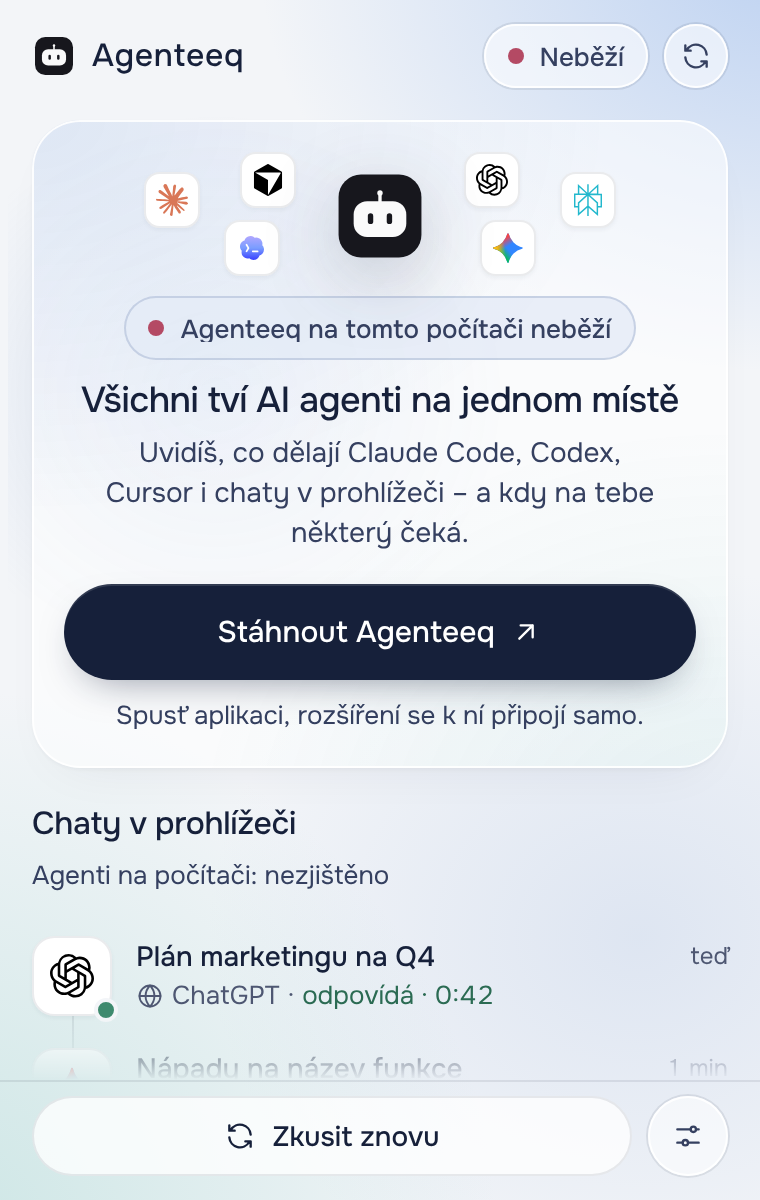
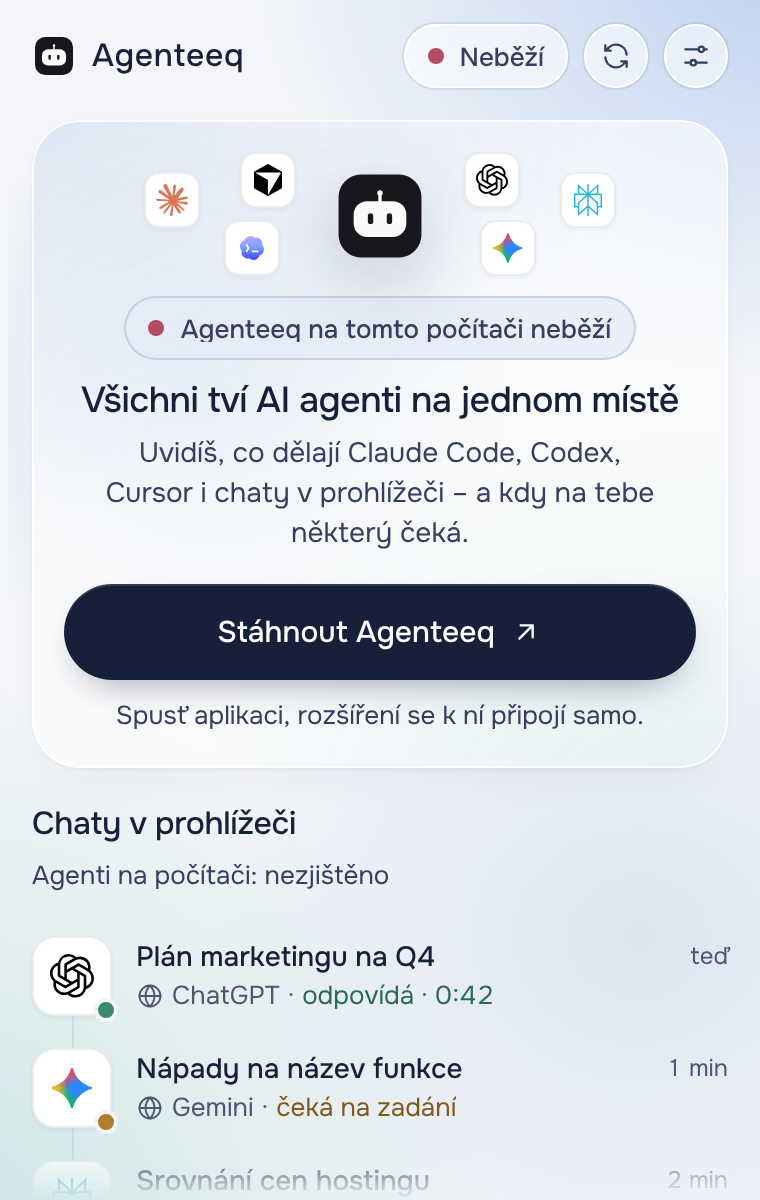
Okno rozšíření: jedno „Otevřít“ na jednom místě, bez paty
Vlastník u rušného stavu: „proč tam je dole ten stejný button? nesmí to být
tak zmatečné!“ Reflektor nabízel „Otevřít v Agenteeq“ a pata hned pod ním
skoro totéž „Otevřít Agenteeq“.

- Akce reflektoru popisuje položku: „Otevřít konverzaci“ (focus-agent otevře
  právě tu konverzaci v aplikaci), u webového chatu „Přepnout na kartu“.
- Aplikaci otevírá jen značka „Agenteeq ↗“ v hlavičce (odkaz se jménem
  „Otevřít aplikaci Agenteeq“, plocha při najetí a zaostření). Bez běžící
  aplikace je to jen značka a jedinou hlavní výzvou zůstává „Stáhnout“.
- Pata zmizela: služby a port jsou kruh v hlavičce vedle obnovy, ověření
  stránky kapsle u řádku aktuální karty; „Zkusit znovu“ nahradila obnova.
  Ose zbylo víc místa – v rušném stavu jsou bez posunu vidět čtyři řádky.

qa-extension hlídá, že pata ani druhé „Otevřít Agenteeq“ nejsou, že žádná
dvě viditelná ovládání nemají stejný popisek, popisek akce reflektoru,
odkaz značky a vejití hlavičky (i na 320 px). Snímky pro obchod přegenerované
skriptem, CHANGELOG a DESIGN.md doplněné.

Claude-Session: https://claude.ai/code/session_01Kd21zLMYvUvUu9VejB3Fu3

diff --git a/extension/popup.html b/extension/popup.html
@@ -81,10 +81,16 @@
 
     /* ---------- Hlavička ---------- */
     .top { flex: none; position: relative; display: flex; align-items: center; gap: 8px; height: 56px; padding: 0 16px; }
-    .top::after, .foot::before { content: ''; position: absolute; left: 0; right: 0; height: 1px; background: var(--hair); opacity: 0; transition: opacity var(--motion-response) var(--ease); }
-    .top::after { bottom: 0; }
-    body[data-odrolovano='true'] .top::after, body[data-dalsi='true'] .foot::before { opacity: 1; }
-    .brand { display: inline-flex; align-items: center; gap: 8px; margin-right: auto; min-width: 0; font: 500 16px/1 var(--f-display); letter-spacing: .02em; }
+    .top::after { content: ''; position: absolute; left: 0; right: 0; bottom: 0; height: 1px; background: var(--hair); opacity: 0; transition: opacity var(--motion-response) var(--ease); }
+    body[data-odrolovano='true'] .top::after { opacity: 1; }
+    /* Značka otevírá aplikaci (jediné místo s touto akcí): kapsle 32 px, plocha až při najetí. Bez
+       běžící aplikace je to jen značka – odkaz by vedl na nedostupnou adresu. */
+    .brand { display: inline-flex; align-items: center; gap: 8px; height: 32px; margin: 0 auto 0 -8px; padding: 0 10px 0 8px; min-width: 0; border-radius: var(--r-full); color: var(--ink); font: 500 16px/1 var(--f-display); letter-spacing: .02em; text-decoration: none; transition: background-color var(--motion-response) var(--ease), box-shadow var(--motion-response) var(--ease); }
+    .brand .sipka { width: 14px; height: 14px; color: var(--ink-2); transition: transform var(--motion-move) var(--ease-out); }
+    a.brand:hover { background: var(--glass-strong); box-shadow: inset 0 0 0 1px var(--glass-rim), 0 0 0 1px var(--hair); }
+    a.brand:hover .sipka { transform: translate(2px, -2px); }
+    a.brand:active { transform: scale(.98); }
+    .brand:not([href]) .sipka { display: none; }
     .chip { display: inline-flex; align-items: center; gap: 8px; height: 32px; padding: 0 12px; border-radius: var(--r-full); font-size: 13px; font-weight: 500; line-height: 1; white-space: nowrap; }
     .chip--glass { background: var(--glass); box-shadow: inset 0 0 0 1px var(--glass-rim), 0 0 0 1px var(--hair); color: var(--ink-2); }
     .dot { width: 8px; height: 8px; flex: none; border-radius: 50%; background: var(--mute); }
@@ -216,6 +222,7 @@
     .btn--primary:hover { background: var(--action-hover); box-shadow: 0 1px 0 rgba(255, 255, 255, .12) inset, 0 12px 24px -12px rgba(22, 32, 58, .6); }
     @media (prefers-color-scheme: dark) { .btn--primary, .btn--primary:hover { box-shadow: 0 8px 24px -12px rgba(0, 0, 0, .8); } }
     .btn--48 { height: 48px; padding: 0 24px; font-size: 15px; }
+    .btn--32 { height: 32px; padding: 0 12px; font-size: 13px; }
     .btn--block { width: 100%; }
     /* Vybraná volba (Sedí / Nesedí): obrys inkoustem, ať se nepere s hlavní výzvou pod ní. Řez písma se nemění. */
     .btn[aria-pressed='true'] { background: var(--card); box-shadow: inset 0 0 0 2px var(--ink); }
@@ -269,6 +276,7 @@
     .row-side { display: grid; justify-items: end; align-self: start; gap: 2px; }
     .row-time { color: var(--mute); font-size: 12px; line-height: 20px; white-space: nowrap; }
     .tag { color: var(--brass-ink); font-size: 12px; line-height: 20px; white-space: nowrap; }
+    .radek--tato .row-side { align-self: center; justify-items: end; gap: 4px; }
     .chev { position: absolute; right: 8px; bottom: 10px; width: 16px; height: 16px; color: var(--mute); opacity: 0; transform: translateX(-4px); transition: opacity var(--motion-response) var(--ease), transform var(--motion-move) var(--ease-out); }
     button.radek:hover .chev, button.radek:focus-visible .chev { opacity: 1; transform: none; }
     .prazdne { margin-top: 16px; padding: 16px; border-radius: var(--r-md); background: var(--glass); box-shadow: inset 0 0 0 1px var(--glass-rim); color: var(--ink-2); font-size: 13px; line-height: 20px; text-align: center; }
@@ -289,14 +297,10 @@
     @keyframes dech { 0% { box-shadow: 0 0 0 0 currentColor; opacity: .45; } 70%, 100% { box-shadow: 0 0 0 5px currentColor; opacity: 0; } }
 
     /* ---------- Pata ---------- */
-    .foot { flex: none; position: relative; display: flex; align-items: center; gap: 8px; padding: 8px 16px 12px; }
-    .foot::before { top: 0; }
-    .foot .btn { flex: 1; min-width: 0; }
-    .foot .btn > span { overflow: hidden; text-overflow: ellipsis; }
 
     /* ---------- Oznámení ---------- */
     .toast {
-      position: absolute; left: 50%; bottom: 72px; z-index: 20; display: inline-flex; align-items: center; gap: 8px; max-width: calc(100% - 32px); height: 40px; padding: 0 16px;
+      position: absolute; left: 50%; bottom: 16px; z-index: 20; display: inline-flex; align-items: center; gap: 8px; max-width: calc(100% - 32px); height: 40px; padding: 0 16px;
       border-radius: var(--r-full); background: var(--ink-surface); color: #FFFFFF; font-size: 13px; font-weight: 500; box-shadow: var(--shadow-lg);
       opacity: 0; pointer-events: none; transform: translate(-50%, 8px); transition: opacity var(--motion-enter) var(--ease), transform var(--motion-enter) var(--ease-out);
     }
@@ -349,6 +353,9 @@
       .feed-head { flex-direction: column; align-items: flex-start; }
       .btn--48 { padding: 0 16px; }
       .orbit .tile:nth-child(1), .orbit .tile:nth-child(6) { display: none; }
+      /* Na úzkém okně zůstane ze značky jen logo; odkaz i jeho název pro čtečku platí dál. */
+      .brand { font-size: 0; gap: 0; }
+      .brand .sipka { display: none; }
     }
 
     @media (prefers-reduced-motion: reduce) {
@@ -359,10 +366,13 @@
 </head>
 <body class="ext-okno" data-stav="nacitam" data-pohled="hlavni">
   <header class="top">
-    <span class="brand" id="brand"><img src="icons/brand.svg" width="22" height="22" alt="">Agenteeq</span>
+    <a class="brand" id="brand" href="http://127.0.0.1:4620/" target="_blank" rel="noopener" aria-label="Otevřít aplikaci Agenteeq" title="Otevřít aplikaci Agenteeq" data-i18n-attr="aria-label,title"><img src="icons/brand.svg" width="22" height="22" alt="">Agenteeq<svg class="ico sipka" viewBox="0 0 24 24" aria-hidden="true"><path d="M7 17 17 7M8 7h9v9"/></svg></a>
     <span class="chip chip--glass stav" id="pill" role="status"><span class="dot"></span><span id="pill-text" data-i18n>Zjišťuji…</span></span>
     <button class="icon-btn" id="refresh-popup" type="button" aria-label="Obnovit aktuální stav" title="Obnovit aktuální stav" data-i18n-attr="aria-label,title">
       <svg class="ico" viewBox="0 0 24 24" aria-hidden="true"><path d="M20 11a8 8 0 0 0-14.9-3.5M4 4v4h4M4 13a8 8 0 0 0 14.9 3.5M20 20v-4h-4"/></svg>
+    </button>
+    <button class="icon-btn" id="sites-open" type="button" aria-haspopup="dialog" aria-controls="view-sluzby" aria-expanded="false" aria-label="Sledované služby a port" title="Sledované služby a port" data-i18n-attr="aria-label,title">
+      <svg class="ico" viewBox="0 0 24 24" aria-hidden="true"><path d="M4 7h10M18 7h2M4 17h4M12 17h8"/><circle cx="16" cy="7" r="2"/><circle cx="10" cy="17" r="2"/></svg>
     </button>
   </header>
 
@@ -435,17 +445,6 @@
     </div>
   </main>
 
-  <footer class="foot">
-    <a class="btn" id="app-link" href="http://127.0.0.1:4620/" target="_blank" rel="noopener"><span id="app-link-text">Otevřít Agenteeq</span>
-      <svg class="ico sipka sipka--ven" viewBox="0 0 24 24" aria-hidden="true"><path d="M7 17 17 7M8 7h9v9"/></svg></a>
-    <button class="btn" id="retry" type="button" hidden><svg class="ico" viewBox="0 0 24 24" aria-hidden="true"><path d="M20 11a8 8 0 0 0-14.9-3.5M4 4v4h4M4 13a8 8 0 0 0 14.9 3.5M20 20v-4h-4"/></svg><span data-i18n>Zkusit znovu</span></button>
-    <button class="icon-btn icon-btn--40" id="check-open" type="button" aria-haspopup="dialog" aria-controls="view-overeni" aria-label="Ověřit tuto stránku" title="Ověřit tuto stránku" data-i18n-attr="aria-label,title" hidden>
-      <svg class="ico" viewBox="0 0 24 24" aria-hidden="true"><path d="M12 3 5 6v5c0 4.4 3 8.4 7 10 4-1.6 7-5.6 7-10V6l-7-3Z"/><path d="m9 12 2 2 4-4"/></svg>
-    </button>
-    <button class="icon-btn icon-btn--40" id="sites-open" type="button" aria-haspopup="dialog" aria-controls="view-sluzby" aria-expanded="false" aria-label="Sledované služby a port" title="Sledované služby a port" data-i18n-attr="aria-label,title">
-      <svg class="ico" viewBox="0 0 24 24" aria-hidden="true"><path d="M4 7h10M18 7h2M4 17h4M12 17h8"/><circle cx="16" cy="7" r="2"/><circle cx="10" cy="17" r="2"/></svg>
-    </button>
-  </footer>
 
   <div class="toast" id="toast" role="status" aria-live="polite"><span></span></div>
   <div class="sr-only" id="announce" aria-live="polite"></div>

diff --git a/extension/popup.js b/extension/popup.js
@@ -145,7 +145,7 @@ function ukaz(pohled) {
   list.overeni.hidden = pohled !== 'overeni';
   $('sites-open').setAttribute('aria-expanded', String(pohled === 'sluzby'));
   // Pod otevřeným listem nic jiného zaostřit nejde (dialog je modální).
-  for (const x of [document.querySelector('.top'), $('scroll'), document.querySelector('.foot')]) x.toggleAttribute('inert', pohled !== 'hlavni');
+  for (const x of [document.querySelector('.top'), $('scroll')]) x.toggleAttribute('inert', pohled !== 'hlavni');
   clearInterval(overeni.casovac);
   if (pohled === 'overeni') {
     obnovOvereni();
@@ -158,7 +158,6 @@ function ukaz(pohled) {
   } else list[pohled].querySelector('[data-close].icon-btn').focus({ preventScroll: true });
 }
 $('sites-open').addEventListener('click', () => ukaz('sluzby'));
-$('check-open').addEventListener('click', () => ukaz('overeni'));
 for (const sheet of [$('view-sluzby'), $('view-overeni')]) {
   sheet.addEventListener('click', (e) => { if (e.target.closest('[data-close]')) ukaz('hlavni'); });
   sheet.addEventListener('keydown', (e) => {
@@ -508,7 +507,7 @@ function slideHtml(M) {
       <div class="who"><span class="tile tile--48" data-s="tile">${logoHtml(logoKlic(it.app), 26)}${M.druh === 'prace' ? '<span class="badge badge--work"></span>' : ''}</span>
         <div data-s><h2 class="spot-title">${esc(sazba(nazev))}</h2><p class="spot-meta"><span>${esc(it.app || '')}${it.app ? ' · ' : ''}<span data-at="${Number(it.at) || 0}" data-format="pred">${esc(ago(it.at))}</span></span></p></div></div>
       ${duvod ? `<p class="say" data-s>${ikona(M.druh === 'prace' ? 'terminal' : ikonaDuvodu(duvod, it.status))}<span class="say-text">${esc(sazba(duvod))}</span></p>` : ''}
-      ${tlacitko(tr('Otevřít v Agenteeq'), `data-agent="${esc(it.id)}" aria-label="${esc(tr('Otevřít agenta {0} v aplikaci Agenteeq', nazev))}"`)}
+      ${tlacitko(tr('Otevřít konverzaci'), `data-agent="${esc(it.id)}" aria-label="${esc(tr('Otevřít agenta {0} v aplikaci Agenteeq', nazev))}"`)}
       <p class="spot-err" role="status" hidden></p>`;
   }
   if (M.druh === 'chat') {
@@ -745,7 +744,7 @@ function radekHtml(p) {
   const obsah = `<span class="tile">${logoHtml(p.logo, 22, p.druh)}${badge ? `<span class="badge ${badge}"></span>` : ''}</span>
     <span class="row-main"><span class="row-title">${esc(sazba(p.title))}</span>
       <span class="row-meta">${ikona(p.druh === 'agent' ? 'terminal' : 'web', 'druh')}${zdroj}<span class="act${p.ton ? ` t-${p.ton}` : ''}"${p.od ? ` data-od="${Number(p.od)}"` : ''}>${esc(sazba(p.act))}</span></span></span>
-    <span class="row-side">${p.tato ? `<span class="tag">${esc(tr('tato karta'))}</span>` : `<span class="row-time" data-at="${Number(p.at) || 0}">${esc(cas(p.at))}</span>`}</span>`;
+    <span class="row-side">${p.tato ? `<span class="tag">${esc(tr('tato karta'))}</span><button type="button" class="btn btn--32" id="check-open" aria-haspopup="dialog" aria-controls="view-overeni">${esc(tr('Ověřit stránku'))}</button>` : `<span class="row-time" data-at="${Number(p.at) || 0}">${esc(cas(p.at))}</span>`}</span>`;
   if (!p.cil) return `<li data-klic="${esc(p.klic)}"><div class="radek${p.tato ? ' radek--tato' : ''}">${obsah}</div></li>`;
   return `<li data-klic="${esc(p.klic)}"><button type="button" class="radek" aria-label="${esc(p.popis)}">${obsah}${ikona('chev', 'chev')}</button></li>`;
 }
@@ -802,6 +801,8 @@ function vykresliOsu({ kaskada = false } = {}) {
 }
 
 $('konverzace').addEventListener('click', (e) => {
+  // Ověření stránky je u řádku aktuální karty – patří k ní, ne k celému oknu.
+  if (e.target.closest('#check-open')) { ukaz('overeni'); return; }
   const tlacitko = e.target.closest('button.radek');
   const p = tlacitko && poslednePolozky.get(tlacitko.closest('[data-klic]').dataset.klic);
   if (!p?.cil) return;
@@ -856,11 +857,9 @@ function vykresli() {
   }
   souhrn.hidden = !s;
   if (s) { souhrn.textContent = sazba(s.text); souhrn.dataset.tone = s.ton; }
-  // Pata: jedna hlavní výzva v místě. Bez aplikace je jí „Stáhnout“ v reflektoru, tady „Zkusit znovu“.
-  $('app-link').hidden = rezim === 'offline';
-  $('retry').hidden = rezim !== 'offline';
-  $('app-link').href = APLIKACE;
-  $('check-open').hidden = !(pripojeno && overeni.diagnostika);
+  // Aplikaci otevírá značka v hlavičce – jediné místo s touto akcí. Bez běžící aplikace je to jen
+  // značka (odkaz by vedl na nedostupnou adresu); hlavní výzvou je pak „Stáhnout“ v reflektoru.
+  nastavZnacku(rezim !== 'offline');
   const out = $('outdated');
   out.hidden = !(pripojeno && seznam.zastarala);
   if (!out.hidden) out.textContent = sazba(tr('Je k dispozici verze {0}. Chrome ji nainstaluje sám; hned ji získáš na stránce chrome://extensions tlačítkem Aktualizovat.', seznam.ocekavana));
@@ -871,8 +870,15 @@ function zakladniStav() {
   seznam.pripojeno = false;
   seznam.zastarala = false;
   delete $('konverzace').dataset.podpis; // Po obnovení spojení se osa vykreslí znovu i se stejnými daty.
-  $('app-link').href = APLIKACE;
-  $('app-link-text').textContent = tr('Otevřít Agenteeq');
+  nastavZnacku(true);
+}
+function nastavZnacku(odkaz) {
+  const z = $('brand');
+  if (odkaz) {
+    z.href = APLIKACE;
+    z.setAttribute('aria-label', tr('Otevřít aplikaci Agenteeq'));
+    z.title = tr('Otevřít aplikaci Agenteeq');
+  } else for (const a of ['href', 'aria-label', 'title']) z.removeAttribute(a);
 }
 
 // Offline stav je skutečná dostupnost lokální služby, ne přítomnost starého snapshotu.
@@ -1013,13 +1019,6 @@ setInterval(async () => {
     probihaKontrolaSpojeni = false;
   }
 }, 5000);
-
-$('retry').addEventListener('click', async () => {
-  const button = $('retry');
-  if (!omezitPohyb()) button.querySelector('svg').animate([{ transform: 'rotate(0)' }, { transform: 'rotate(360deg)' }], { duration: 700, easing: 'cubic-bezier(.2,.8,.2,1)' });
-  await render();
-  if (rezim === 'offline') toast(tr('Agenteeq na tomto počítači neběží'));
-});
 
 // Agenteeq běží na jiném portu (PORT): rozšíření si ho uloží. Jiný než výchozí port
 // potřebuje oprávnění pro 127.0.0.1 na libovolném portu – Chrome se zeptá jednou, v tomhle kliknutí.

diff --git a/extension/i18n.js b/extension/i18n.js
@@ -90,7 +90,6 @@
       // Aplikace běží, ale ověření rozšíření selhalo
       'Nepodařilo se ověřit spojení s Agenteeq': 'Couldn’t verify the connection to Agenteeq',
       'Aplikace běží, ale rozšíření od ní nedostalo odpověď. Zkusím to znovu za pár sekund.': 'The app is running, but the extension got no answer from it. I’ll try again in a few seconds.',
-      'Zkusit znovu': 'Try again',
       'Stáhnout Agenteeq': 'Get Agenteeq',
       // Agenti na tomto počítači
       'Chaty v prohlížeči': 'Chats in the browser',
@@ -110,7 +109,8 @@
       'Potřebuje tě: {0} z {1}. Šipkami vlevo a vpravo přepneš.': 'Needs you: {0} of {1}. Use the left and right arrow keys to switch.',
       'Nově tě potřebuje: {0}': 'Now needs you: {0}',
       'Potřebuje tě': 'Needs you',
-      'Otevřít v Agenteeq': 'Open in Agenteeq',
+      'Otevřít konverzaci': 'Open conversation',
+      'Otevřít aplikaci Agenteeq': 'Open the Agenteeq app',
       'Odpovídá': 'Replying',
       'v jiné kartě': 'in another tab',
       'Přepnout na kartu': 'Switch to tab',
@@ -145,12 +145,10 @@
       'Nic dalšího se teď neděje.': 'Nothing else is happening right now.',
       'Otevři chat s AI a objeví se tady.': 'Open an AI chat and it shows up here.',
       'Rozšíření je sleduje samo, i bez spárování.': 'The extension tracks them on its own, even before pairing.',
-      'Ověřit tuto stránku': 'Check this page',
+      'Ověřit stránku': 'Check page',
       'Sledované služby a port': 'Tracked services and port',
       'Zavřít': 'Close',
       'odpověď je hotová': 'reply finished',
-      // Patička
-      'Otevřít Agenteeq': 'Open Agenteeq',
     },
     // Tvary podle počtu: klíč jsou tři české tvary, hodnota anglické [jednotné, množné].
     mnozne: {

diff --git a/CHANGELOG.md b/CHANGELOG.md
@@ -2,10 +2,10 @@
 
 ## Připravované změny po 0.46.12 · nevydáno
 
-- **Nové okno rozšíření pro Chrome: jedna hlavní věc.** Velké číslo s počtem agentů zmizelo. Nahoře je skleněná karta s tím, co tě teď potřebuje – nástroj, název, důvod („Čeká na povolení: Bash“) a tlačítko **Otevřít v Agenteeq**, které agenta otevře přímo v aplikaci (schválit z okna nic nejde, proto netvrdí „Rozhodnout“). Když tě potřebuje víc agentů, karta má stránkování se skutečným počtem („1 / 3“), šipky a ovládání šipkami na klávesnici; nové rozhodnutí jen označí šipku tečkou, okno samo nikam nepřeskočí. Bez rozhodnutí karta ukáže pracujícího agenta, odpovídající chat v jiné kartě (**Přepnout na kartu**), nebo klid.
+- **Nové okno rozšíření pro Chrome: jedna hlavní věc.** Velké číslo s počtem agentů zmizelo. Nahoře je skleněná karta s tím, co tě teď potřebuje – nástroj, název, důvod („Čeká na povolení: Bash“) a tlačítko **Otevřít konverzaci**, které ji otevře přímo v aplikaci (schválit z okna nic nejde, proto netvrdí „Rozhodnout“). Aplikaci jako celek otevírá značka **Agenteeq ↗** v hlavičce – v okně tak nejsou dvě skoro stejná tlačítka „Otevřít“ a pata zmizela; sledované služby a port jsou v hlavičce vedle obnovy, ověření stránky u řádku aktuální karty. Když tě potřebuje víc agentů, karta má stránkování se skutečným počtem („1 / 3“), šipky a ovládání šipkami na klávesnici; nové rozhodnutí jen označí šipku tečkou, okno samo nikam nepřeskočí. Bez rozhodnutí karta ukáže pracujícího agenta, odpovídající chat v jiné kartě (**Přepnout na kartu**), nebo klid.
 - **Co se děje: agenti, chaty a poslední konverzace v jednom seznamu.** Pod kartou je časová osa Teď / Dnes / Dříve s logy nástrojů a služeb: pracující agenti s aktuální činností, chaty otevřené v kartách (s titulkem karty) a až 8 posledních konverzací z aplikace napříč nástroji – Codex, Cursor, Ollama, Grok, Qwen… Filtr Vše · Agenti · Chaty, ovládání šipkami a Enterem. Okno dostává jen titulek, nástroj, stav a čas; žádné přepisy ani cesty.
 - **Poctivé „nezjištěno“.** Když Agenteeq nevidí výpis procesů nebo aplikace neběží, okno píše „Agenti na počítači: nezjištěno“ – nikdy „nikdo nepracuje“ ani nulu.
-- **Bez aplikace: proč ji mít a jedna výzva.** Okno řekne, že Agenteeq na tomto počítači neběží, ukáže, co aplikace umí, a nabídne jediné hlavní tlačítko **Stáhnout Agenteeq** (v patě „Zkusit znovu“). Chaty v kartách, které rozšíření vidí samo, se ukazují i bez aplikace a bez spárování. Spárování jednorázovým kódem (16 znaků), port aplikace, sledované služby a ověření stránky zůstávají – služby a port i ověření jsou teď list nad oknem.
+- **Bez aplikace: proč ji mít a jedna výzva.** Okno řekne, že Agenteeq na tomto počítači neběží, ukáže, co aplikace umí, a nabídne jediné hlavní tlačítko **Stáhnout Agenteeq**; znovu to zkusí obnova v hlavičce. Chaty v kartách, které rozšíření vidí samo, se ukazují i bez aplikace a bez spárování. Spárování jednorázovým kódem (16 znaků), port aplikace, sledované služby a ověření stránky zůstávají – služby a port i ověření jsou teď list nad oknem.
 - **Vzhled aplikace i v okně.** Okno přebírá vzhled Obloha: mlha a inkoust, sklo s bílou hranou, tichá atmosféra, pigmenty stavů a inkoust jako hlavní akce – stará fialová je pryč. Světlý i tmavý režim, 380 × 600 px, funguje i na 320 px a při zvětšení 200 %. Pohyb reaguje na akci (okamžitý stisk, nástup položek, přeskládání při filtru, podsvícení nové položky); smyčkou se hýbe jen tečka u pracujícího agenta a při omezení pohybu se nehýbe nic.
 - **Anglické rozhraní bez českých zbytků.** Titulek průvodce „ChatGPT, Gemini a Claude.ai taky.“, ukázka „Claude · Limit 5 h“, „v“ před počtem konverzací ve Statistikách, průběh úkolů a kontext v detailu agenta, popisky počtů v přehledu účtu i odznak v nabídce už jsou přeložené. `test/i18n.test.mjs` nově hledá i češtinu bez diakritiky: předložku přilepenou před dosazenou hodnotu a větu v poli rozhraní mimo `tr()`.
 - **Správné tvary podle počtu.** „Další 3 jsou v sekci Agenti“ místo „Dalších 3 je“, „3 potřebují tebe“, „1 selhal“, „1 nalezená konverzace“, „1 nepřečtené“ a „A další 2“. Dlaždice Stav agentů, odznak v nabídce a přehled účtu berou popisek z jednoho místa (`public/js/stav-vety.js#popisPoctu`); místo „limit“ stojí „na limitu“, které sedí ke každému číslu.

diff --git a/docs/DESIGN.md b/docs/DESIGN.md
@@ -125,19 +125,24 @@ Vlastník vybral směr „Jedna hlavní věc“ (scéna) s prvky ze směrů „V
 značka“. Závazná podoba `extension/popup.html`:
 
 - **Žádné velké číslo.** Počty jen drobně: stránkování reflektoru, počty ve skupinách, souhrnná věta.
-- **Hlavička 56 px** (značka, kapsle stavu spojení, kruhová obnova) a **pata** (kapsle „Otevřít
-  Agenteeq“, bez aplikace „Zkusit znovu“; kruhy Ověřit tuto stránku a Sledované služby a port) stojí,
-  roluje jen střed. Okno má 380 × 600 px; obsah pod patou se rozplyne maskou.
+- **Hlavička 56 px** stojí, roluje jen zbytek: značka „Agenteeq ↗“ je odkaz, který otevírá aplikaci
+  (jediné místo s touto akcí; bez běžící aplikace jen značka), kapsle stavu spojení, kruhová obnova
+  a kruh Sledované služby a port. **Pata není** – vlastník 14. 10. 2026: druhé „Otevřít Agenteeq“
+  vedle „Otevřít v Agenteeq“ bylo matoucí. Ověření stránky je kapsle u řádku aktuální karty. Dvě
+  viditelná ovládání nikdy nenesou stejný nebo podobný popisek (hlídá qa-extension). Okno má
+  380 × 600 px; obsah na spodním okraji se rozplyne maskou.
 - **Reflektor:** skleněná karta `--r-lg` se září v pigmentu stavu (růže = potřebuje tě / selhalo,
   okr = limit, šalvěj = pracuje, mlha = klid). Pořadí: rozhodnutí → pracující agent → odpovídající chat
   v jiné kartě → nezjištěno → klid. Víc rozhodnutí = stránkování se skutečným počtem a šipkami
   (←/→, tah); nová položka jen tečka na šipce, okno nikdy samo nepřeskočí. Akce říká pravdu:
-  „Otevřít v Agenteeq“ (focus-agent), u chatu „Přepnout na kartu“ – nikdy „Rozhodnout“.
+  „Otevřít konverzaci“ (focus-agent otevře tu konverzaci v aplikaci), u chatu „Přepnout na kartu“ –
+  nikdy „Rozhodnout“.
 - **Co se děje:** filtr Vše · Agenti · Chaty (kapsle 32 px), skupiny Teď / Dnes / Dříve, řádek
   `--r-md` s dlaždicí loga (`--r-logo`) a tečkou stavu, název, „nástroj · činnost“ v `*-ink`
   pigmentu, čas vpravo. Stav se v řádcích neopakuje jako štítek – nese ho skupina a barva činnosti.
 - **Pravdivé stavy:** nezjištěný výpis procesů i nedostupná aplikace = „nezjištěno“, nikdy nula.
-  Bez aplikace jedna hlavní výzva (Stáhnout) a chaty, které rozšíření vidí samo.
+  Bez aplikace jedna hlavní výzva (Stáhnout) a chaty, které rozšíření vidí samo. Aplikace běží, ale
+  ověření selže = „Nepodařilo se ověřit spojení s Agenteeq“, nikdy „neběží“ ani „nespárováno“.
 - **Pohyb:** stisk do 90 ms, nástup po částech, FLIP při filtru, podsvícení nové položky, záře mezi
   stavy přes `@property`. Smyčkou se smí hýbat jen tečka „pracuje“. `prefers-reduced-motion` vypne vše.
 
